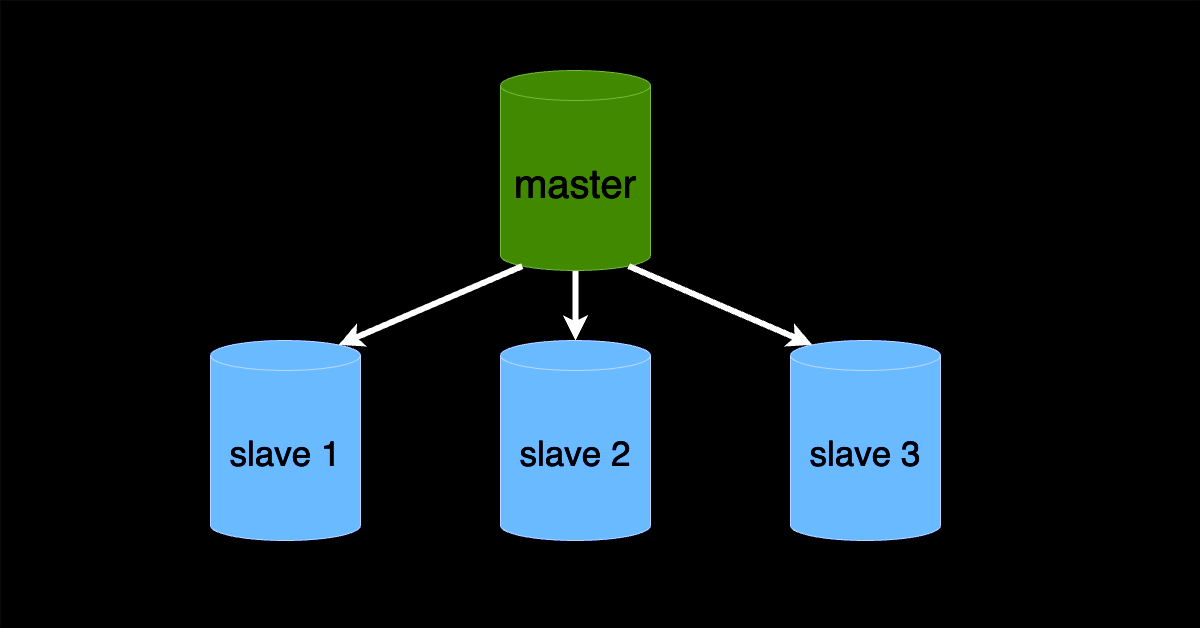
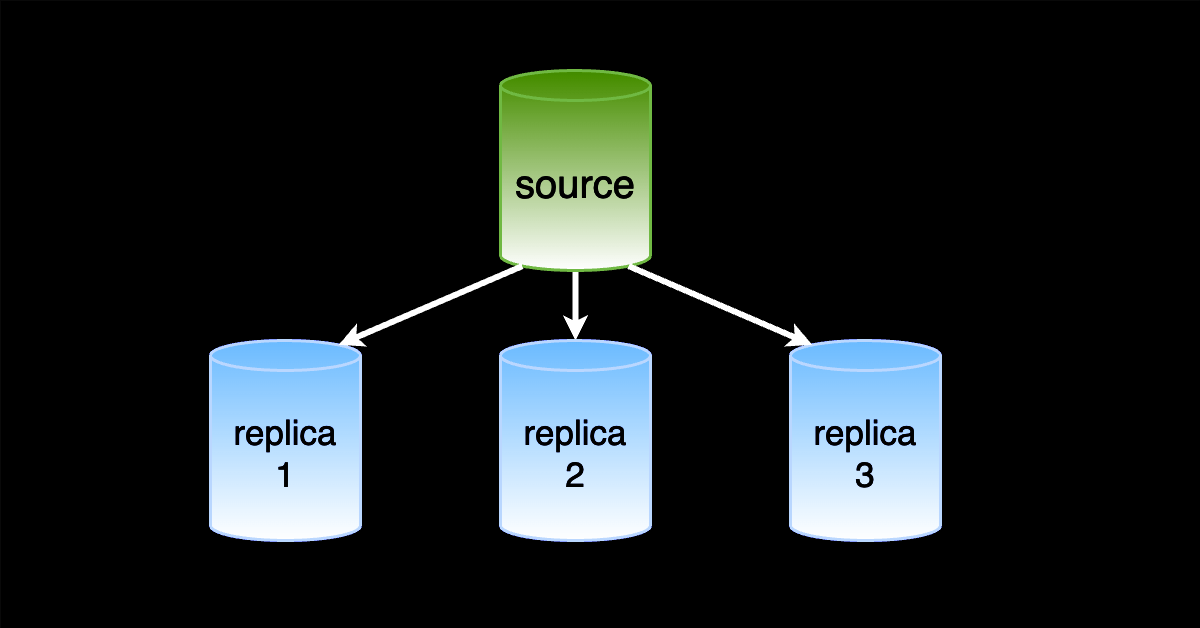
Updated MySQL replica article.

diff --git a/content/posts/mysql-master-slave-replication/index.md b/content/posts/mysql-master-slave-replication/index.md
@@ -1,8 +1,8 @@
 +++
-title = 'Create a MySQL slave replica in 4 short steps'
-description = "Scale your database using master-slave replication"
+title = 'Create a MySQL replica database in 4 short steps (2025)'
+description = "Scale your database using source-replica (master-slave) replication"
 image = "mysql-master-slave-replication.png"
-date = 2024-05-18
+date = 2025-01-08
 categories = ["Database Administration"]
 tags = ["MySQL", "Database Scaling"]
 draft = false
@@ -10,21 +10,31 @@ draft = false
 
 ## Introduction
 
-In this article, we will create a MySQL slave replica. A MySQL slave is a read-only copy of the master database. Using
-MySQL replication, the slave database is kept in sync with the master database.
+In this article, we will create a MySQL replica database. A MySQL replica is a read-only copy of the primary database,
+which is kept in sync with the main database using MySQL replication threads.
 
 The steps we will follow are:
 
-1. [Spin up MySQL master and slave databases](#create-mysql-master-and-slave-databases)
+1. [Spin up MySQL source and replica databases](#create-mysql-source-and-replica-databases)
 2. [Create a user for replication](#create-db-user-for-replication)
-3. [Obtain master binary log coordinates](#retrieve-master-binary-log-coordinates)
-4. [Configure slave and start replication](#configure-slave-and-start-replication)
+3. [Obtain source binary log coordinates](#retrieve-source-binary-log-coordinates)
+4. [Configure replica DB and start replication](#configure-replica-and-start-replication)
+
+To add a replica to an existing MySQL database, see the
+[copy database from source and start replication manually](#copy-database-from-source-and-start-replication-manually)
+section.
+
+## Terminology: master-slave vs source-replica
+
+In database replication, the terms master-slave and source-replica are used interchangeably. In recent MySQL versions,
+the term source-replica is preferred over master-slave due to its more neutral connotation. Many keywords and variables
+in MySQL have recently been renamed to use neutral terms. We will use the terms source and replica in this article.
 
 ## What is database replication?
 
-Database replication is a process that allows data from one database server (the master) to be copied to one or more
-database servers (the slaves or replicas). Replication is asynchronous, meaning that the slave does not need to be
-connected to the master constantly. The replica can catch up with the master when it is available.
+Database replication is a process that allows data from one database server (the source) to be copied to one or more
+database servers (replicas). Replication is asynchronous, meaning the replica instance does not need to be connected to
+the source constantly. The replica can catch up with the source when either becomes available.
 
 Database replicas are used for:
 
@@ -32,67 +42,27 @@ Database replicas are used for:
 - High availability
 - Disaster recovery
 
-MySQL implements replication using the binary log. The master server writes changes to the binary log, and the slave
-server reads the binary log and applies the changes to its database.
+MySQL implements replication using the binary log. The source server writes changes to the binary log, and the replica
+server reads it and applies the changes to its database.
 
-## Create MySQL master and slave databases {#create-mysql-master-and-slave-databases}
+## Create MySQL source and replica databases {#create-mysql-source-and-replica-databases}
 
-We will use Docker to create the MySQL master and slave databases. We will use the
-[official MySQL Docker image](https://hub.docker.com/_/mysql). The master database will run on port 3308, and the slave
-database will run on port 3309.
+We will use Docker to create the MySQL source and replica databases. We will use the
+[official MySQL Docker image](https://hub.docker.com/_/mysql). The source database will run on port 3308, and the
+replica database will run on port 3309. Both servers will have the database named `test`. We tested these instructions
+on MySQL 8.0.36, MySQL 8.4.3, and MySQL 9.1.0.
 
 We run `docker compose up` using the following `docker-compose.yml` file:
 
-```yaml
----
-version: "2"
-services:
-  mysql_master:
-    image: mysql:8.0
-    volumes:
-      - mysql-replica-main:/tmp
-    command:
-      [
-        "mysqld",
-        "--datadir=/tmp/mysqldata-replica-main",
-        "--log-bin=bin.log",
-        "--server-id=1"
-      ]
-    environment:
-      &mysql-default-environment
-      MYSQL_ROOT_PASSWORD: toor
-      MYSQL_DATABASE: test
-      MYSQL_USER: test_user
-      MYSQL_PASSWORD: insecure
-    ports:
-      - "3308:3306"
-
-  mysql_slave:
-    image: mysql:8.0
-    volumes:
-      - mysql-replica-read:/tmp
-    command:
-      [
-        "mysqld",
-        "--datadir=/tmp/mysqldata-replica-read",
-        "--log-bin=bin.log",
-        "--server-id=2"
-      ]
-    environment: *mysql-default-environment
-    ports:
-      - "3309:3306"
-
-volumes:
-  mysql-replica-main:
-  mysql-replica-read:
-```
+{{< gist getvictor 92ce5a8541ce27a1ea36f9eb7feb0344 >}}
 
 ## Create a DB user for replication {#create-db-user-for-replication}
 
-Replication in MySQL requires a user with the `REPLICATION SLAVE` privilege. We will create a user named `replicator`
-with the password `rotacilper`.
+Replication in MySQL requires a user with the
+[`REPLICATION SLAVE`](https://dev.mysql.com/doc/refman/8.4/en/privileges-provided.html#priv_replication-slave)
+privilege. We will create a user named `replicator` with the password `rotacilper`.
 
-Connect to the master database using the MySQL client:
+Connect to the source database using the MySQL client:
 
 ```bash
 mysql --host 127.0.0.1 --port 3308 -uroot -ptoor
@@ -106,14 +76,16 @@ GRANT REPLICATION SLAVE ON *.* TO 'replicator'@'%';
 FLUSH PRIVILEGES;
 ```
 
-## Retrieve master binary log coordinates {#retrieve-master-binary-log-coordinates}
+## Retrieve source binary log coordinates {#retrieve-source-binary-log-coordinates}
 
-For the slave to start replication, it needs to know the master's binary log file and position. We can obtain this
-information using the MySQL client which we opened in the previous step.
+For the replica server to start replication, it needs to know the source's binary log file and position. We can obtain
+this information using the MySQL client we opened in the previous step.
 
 ```sql
-SHOW MASTER STATUS;
+SHOW BINARY LOG STATUS;
 ```
+
+In MySQL 8.0, use the `SHOW MASTER STATUS` command instead of `SHOW BINARY LOG STATUS`.
 
 The output will look like this:
 
@@ -121,54 +93,110 @@ The output will look like this:
 +------------+----------+--------------+------------------+-------------------+
 | File       | Position | Binlog_Do_DB | Binlog_Ignore_DB | Executed_Gtid_Set |
 +------------+----------+--------------+------------------+-------------------+
-| bin.000003 |      861 |              |                  |                   |
+| bin.000003 |      862 |              |                  |                   |
 +------------+----------+--------------+------------------+-------------------+
 1 row in set (0.01 sec)
 ```
 
 We must remember the `File` and `Position` values for the next step.
 
-## Configure slave and start replication {#configure-slave-and-start-replication}
+## Configure replica DB and start replication {#configure-replica-and-start-replication}
 
-Now, we will connect to the slave database and configure it to replicate from the master database.
+Now, we will connect to the replica database and configure it to replicate from the source database.
 
 ```bash
 mysql --host 127.0.0.1 --port 3309 -uroot -ptoor
 ```
 
-Use the `CHANGE MASTER TO` command to configure the slave to replicate from the master. Replace `MASTER_LOG_FILE` and
-`MASTER_LOG_POS` with the values obtained in the previous step.
+Use the `CHANGE REPLICATION SOURCE TO` command to configure the replica to replicate from the source. Replace
+`SOURCE_LOG_FILE` and `SOURCE_LOG_POS` with the values obtained in the previous step.
 
 ```sql
-CHANGE MASTER TO
-  MASTER_HOST='mysql_master',
-  MASTER_PORT=3306,
-  MASTER_USER='replicator',
-  MASTER_PASSWORD='rotacilper',
-  MASTER_LOG_FILE='bin.000003',
-  MASTER_LOG_POS=861,
-  GET_MASTER_PUBLIC_KEY=1;
+CHANGE REPLICATION SOURCE TO
+  SOURCE_HOST='mysql_source',
+  SOURCE_PORT=3306,
+  SOURCE_USER='replicator',
+  SOURCE_PASSWORD='rotacilper',
+  SOURCE_LOG_FILE='bin.000003',
+  SOURCE_LOG_POS=862,
+  GET_SOURCE_PUBLIC_KEY=1;
 ```
 
-`MASTER_HOST` is the hostname of the master, which matches the docker service name. The `GET_MASTER_PUBLIC_KEY` option
-is needed for MySQL 8.0 `caching_sha2_password` authentication.
+`SOURCE_HOST` is the primary source's hostname, which matches the docker service name. The `GET_SOURCE_PUBLIC_KEY`
+option is needed for `caching_sha2_password` authentication.
 
-Finally, start the slave:
+Finally, start the replica:
 
 ```sql
-START SLAVE;
+START REPLICA;
 ```
 
-The slave will now start replicating data from the master database. You can check the replication status using the
-`SHOW REPLICA STATUS\G` command.
+The replica will now start cloning data from the source database. You can check the replication status using the
+`SHOW REPLICA STATUS\G` command. Use this command to check for errors if you suspect something is wrong.
 
-We can create a table with data on the master database and check if it is replicated to the slave database:
+We can create a table with data on the source database and check if it is replicated to the replica database:
 
 ```sql
 USE test;
 CREATE TABLE users (id INT PRIMARY KEY, name VARCHAR(255));
 INSERT INTO users VALUES (1, 'Alice');
 ```
+
+## Restore replication after an issue
+
+If the replica crashes and comes back up, it may be unable to resume replication from where it left off. If the replica
+stops replicating due to an error, first try to restart replication on the replica:
+
+```sql
+STOP REPLICA;
+START REPLICA;
+```
+
+Check the replication status for errors using the `SHOW REPLICA STATUS\G` command.
+
+If the replica still does not replicate, we need to copy the database from the source and restart replication manually.
+
+### Copy database from source and start replication manually
+
+Reset the replica:
+
+```sql
+STOP REPLICA;
+RESET REPLICA ALL;
+```
+
+Optionally, drop and recreate the database on the replica:
+
+```sql
+DROP DATABASE test;
+CREATE DATABASE test;
+```
+
+If the source database still has the binary log files around from the first time we set up replication, we can redo the
+original steps using the same source log file and position. If not, we need to back up the source database and restore
+it on the replica.
+
+Backup the source database (on port 3308 with database name `test`):
+
+```sql
+bash -c 'mysqldump --host 127.0.0.1 --port 3308 -uroot -ptoor test | gzip -' > backup.sql.gz
+```
+
+Restore the backup on the replica database (on port 3309):
+
+```sql
+bash -c 'gzip -dc - | mysql --host 127.0.0.1 --port 3308 -uroot -ptoor test' < backup.sql.gz
+```
+
+Now, redo the following steps from above:
+
+- [Obtain source binary log coordinates](#retrieve-source-binary-log-coordinates)
+- [Configure replica DB and start replication](#configure-replica-and-start-replication)
+
+As you can see, restarting replication after an issue can be more involved than just restarting the replica. Regular
+backups can help in such situations. When backing up the source database, make sure to include the binary log files,
+along with the corresponding binary log position. You can then use these files to restore or spin up a new replica while
+the source database is actively running.
 
 ## Further reading on database scaling
 
@@ -179,8 +207,8 @@ INSERT INTO users VALUES (1, 'Alice');
   [memory issue with MySQL prepared statements when scaling applications](../sql-prepared-statements-are-broken-when-scaling-applications).
 - We also wrote about [securing your MySQL Docker container for Zero Trust](../secure-mysql-docker).
 
-## Follow along with the MySQL master-slave replication on video
+## Follow along with the MySQL source-replica video
 
-{{< youtube nMbb1199HQU >}}
+{{< youtube mpCeatW4t_U >}}
 
 _Note:_ If you want to comment on this article, please do so on the YouTube video.
